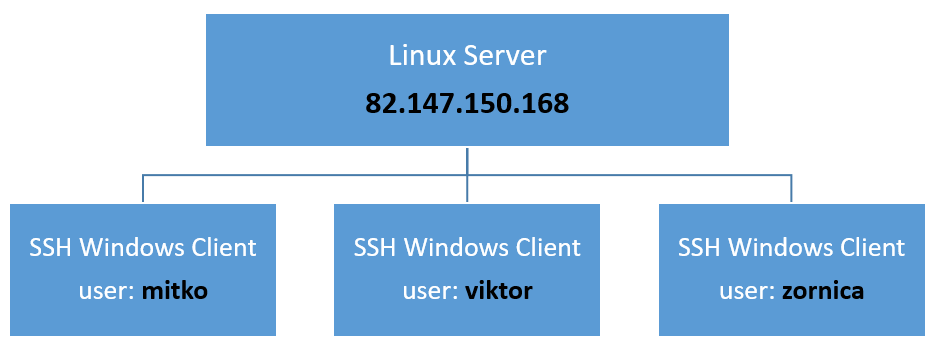
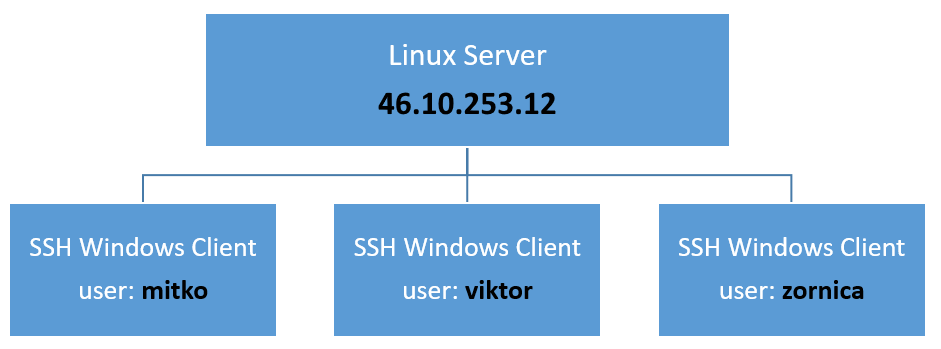
updates

Changed region(s): [[0.3698, 0.2579, 0.6164, 0.3438]]

diff --git a/01_linux_basics/06.md b/01_linux_basics/06.md
@@ -1,6 +1,6 @@
 ## Трансфер на файлове
 
-Операционната система Линукс предоставя различни средства за прехвърляне на информация между компютри. Обикновено се използва моделът “клиент-сървър”, при който клиентите инициират връзки и запитвания към сървър, който съответно отговаря на получените заявки.
+Операционната система Линукс предоставя различни средства за прехвърляне на информация между компютри. Обикновено се използва моделът "клиент-сървър", при който клиентите инициират връзки и запитвания към сървър, който съответно отговаря на получените заявки.
 
 В нашата работна среда използваме протоколът за трансфер на файлове [File Transfer Protocol](https://bg.wikipedia.org/wiki/FTP). Това е стандартен мрежов протокол, използван за прехвърляне на компютърни файлове между клиент и сървър в компютърна мрежа. Можете да копирате файлове в директорията `~/ftp/files` локално, на Вашата работна система: 
 

diff --git a/01_linux_basics/02.md b/01_linux_basics/02.md
@@ -1,6 +1,6 @@
 ## Работна среда
 
-Работната среда се състои от един Линукс сървър с реален Интернет протокол адрес **82.147.150.168** и множество Windows клиенти. Достъпа на клиентите до сървъра се осъществява посредством [Telnet](https://en.wikipedia.org/wiki/Telnet)  използвайки [SSH](https://bg.wikipedia.org/wiki/SSH ).
+Работната среда се състои от един Линукс сървър с реален Интернет протокол адрес **46.10.253.12** и множество Windows клиенти. Достъпа на клиентите до сървъра се осъществява посредством [Telnet](https://en.wikipedia.org/wiki/Telnet)  използвайки [SSH](https://bg.wikipedia.org/wiki/SSH ).
  
 ![02.png](02.png)  
  
